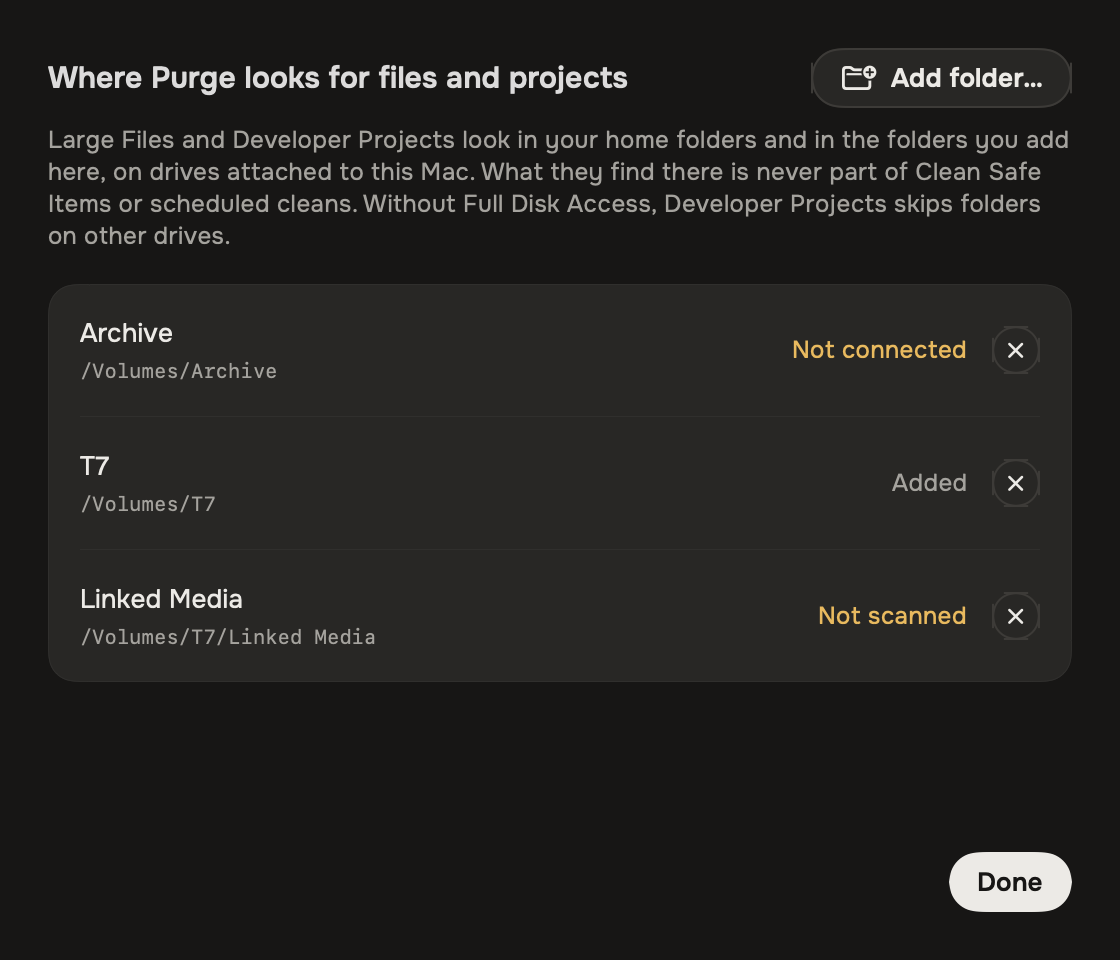
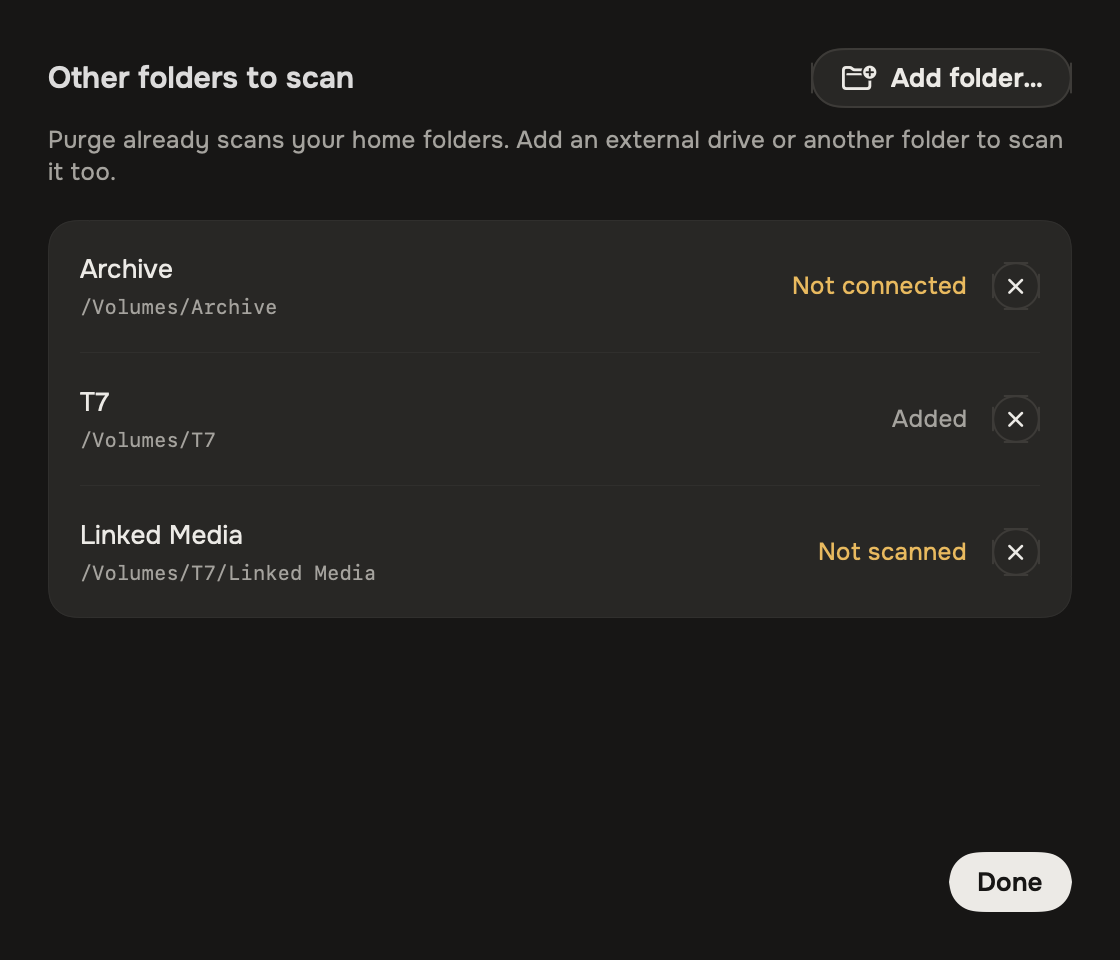
fix: shorten the added-folders text and say home folders are always scanned (#318)
The row is now Other folders to scan, with "Home folders are always
scanned. Add a drive or folder." The sheet says "Purge already scans
your home folders. Add an external drive or another folder to scan it
too." The empty state and the folder picker are shorter too. READMEs,
translations and the Settings and sheet screenshots follow.

diff --git a/purge/Views/SettingsView.swift b/purge/Views/SettingsView.swift
@@ -282,8 +282,8 @@ struct SettingsView: View {
 
             // Named for what it answers, like the uninstaller's row (#318).
             settingsLinkRow(
-                title: String(localized: "Where Purge looks for files and projects"),
-                caption: String(localized: "Your home folders, plus folders and drives you add."),
+                title: String(localized: "Other folders to scan"),
+                caption: String(localized: "Home folders are always scanned. Add a drive or folder."),
                 value: scanFoldersSummary
             ) {
                 showScanFoldersSheet = true
@@ -654,8 +654,8 @@ struct SettingsView: View {
     /// The sheet for `entries`. A render of it in the test host passes its own.
     func scanFoldersSheet(entries: [ScanFolders.Entry]) -> some View {
         settingsSheet(
-            title: String(localized: "Where Purge looks for files and projects"),
-            caption: String(localized: "Large Files and Developer Projects look in your home folders and in the folders you add here, on drives attached to this Mac. What they find there is never part of Clean Safe Items or scheduled cleans. Without Full Disk Access, Developer Projects skips folders on other drives."),
+            title: String(localized: "Other folders to scan"),
+            caption: String(localized: "Purge already scans your home folders. Add an external drive or another folder to scan it too."),
             onDone: { showScanFoldersSheet = false }
         ) {
             Button(action: chooseScanFolder) {
@@ -665,7 +665,7 @@ struct SettingsView: View {
         } content: {
             InsetCard {
                 if entries.isEmpty {
-                    Text("No folders added. Add a folder or a whole drive for Large Files and Developer Projects to look in too.")
+                    Text("No folders added.")
                         .font(scheduleStatusSecondaryFont)
                         .foregroundStyle(AppColors.textSecondary)
                         .fixedSize(horizontal: false, vertical: true)

diff --git a/purge/Services/ScanFolderAdding.swift b/purge/Services/ScanFolderAdding.swift
@@ -14,7 +14,7 @@ enum ScanFolderAdding {
         panel.canCreateDirectories = false
         panel.directoryURL = URL(fileURLWithPath: "/Volumes", isDirectory: true)
         panel.prompt = String(localized: "Add")
-        panel.message = String(localized: "Choose a folder or a drive. Large Files and Developer Projects will look inside it too.")
+        panel.message = String(localized: "Choose a drive or folder to scan too.")
         panel.begin { response in
             guard response == .OK, let folder = panel.url else { return }
             add(folder)

diff --git a/README.ru.md b/README.ru.md
@@ -87,7 +87,7 @@
 
 В **Настройках → Очистка** выберите **Срок устаревания проектов** (от 1 месяца до 2 лет или «Показать все»), чтобы управлять тем, какие проекты показываются. Возраст считается от последнего изменения чего-либо в проекте, включая активность git, а не от даты у `node_modules` или `target`. Проект, который используется прямо сейчас — с запущенным в нём терминалом или dev-сервером либо выполняемой командой git, — не показывается никогда.
 
-Проекты разработчика также берутся из папок и дисков, которые вы добавили в **Настройках → Где Purge ищет файлы и проекты**. Найденные там проекты всегда помечены «Сначала проверить», поэтому «Очистить безопасное» и очистка по расписанию их не трогают. Без полного доступа к диску ищутся только добавленные папки внутри домашней папки.
+Проекты разработчика также берутся из папок и дисков, которые вы добавили в **Настройках → Другие папки для сканирования**. Найденные там проекты всегда помечены «Сначала проверить», поэтому «Очистить безопасное» и очистка по расписанию их не трогают. Без полного доступа к диску ищутся только добавленные папки внутри домашней папки.
 
 Рабочие копии git, созданные ИИ-инструментами для программирования (Cursor, Codex, Conductor, T3 Code и Claude Code), появляются в разделе **Осиротевшие рабочие копии git** только после того, как их репозиторий перестаёт их перечислять. Рабочая копия, которую git всё ещё использует, не появится, какой бы старой она ни была, как и та, в которой работает терминал или агент.
 
@@ -96,7 +96,7 @@
 Найдите личные файлы, которые занимают много места, не копаясь в папках:
 
 - Сканирует **Документы**, **Рабочий стол**, **Загрузки**, **Фильмы**, **Музыку** и **Изображения**, а также `~/Parallels` и `~/Virtual Machines.localized` — только для виртуальных машин, и собственную папку iCloud Drive — для файлов, которые можно хранить только в iCloud
-- Также сканирует папки и диски, которые вы добавили в **Настройках → Где Purge ищет файлы и проекты**, — только на дисках, подключённых к Mac, и никогда в сетевых папках или облачных дисках. Папка, диск которой отключён, пропускается и называется, а не показывается пустой. Файлы оттуда попадают в Корзину этого диска
+- Также сканирует папки и диски, которые вы добавили в **Настройках → Другие папки для сканирования**, — только на дисках, подключённых к Mac, и никогда в сетевых папках или облачных дисках. Папка, диск которой отключён, пропускается и называется, а не показывается пустой. Файлы оттуда попадают в Корзину этого диска
 - Папка, которую вы перенесли и заменили ссылкой, например `~/Documents`, указывающей на другой диск, сканируется там, куда ведёт ссылка, если это внутри вашей домашней папки или на диске в `/Volumes`, подключённом к вашему Mac. Её файлы показываются по настоящему пути и отправляются в Корзину того диска. Ссылка в любое другое место — например, в `~/Library/CloudStorage`, на сетевой ресурс, на целый диск или на копию Mac, — не отслеживается, а сканирование сообщает, куда она ведёт. Ссылки внутри папок не отслеживаются никогда
 - Пропускает управляемые библиотеки (Фото, iMovie, Музыка и подобные), скрытые папки и папки проектов вроде `node_modules`, `Pods`, `DerivedData` и результаты сборки. Удалить один файл из дерева зависимостей — значит просто сломать установку, поэтому такие вещи относятся к инструментам разработчика, которые убирают их папкой целиком
 - **Поиск** фильтрует список по мере ввода, сверяясь с именем файла, папкой, в которой он лежит, и его источником
@@ -171,7 +171,7 @@ Purge ставит метку безопасности каждому элеме
 Настройки — это вкладка в боковой панели (⌘,) с пятью группами:
 
 - **Общие**: **Оставить Purge в строке меню**, при новой установке выключено. Когда включено, Purge продолжает работать после закрытия окна, и можно также выбрать **Запускать Purge при входе** и **Скрыть значок в Dock**. **Внешний вид**: авто, светлая или тёмная
-- **Очистка**: **Очищать автоматически**, с частотой и датой следующей очистки. **Срок устаревания проектов** — порог для проектов разработчика. **Где Purge ищет файлы и проекты** — папки и диски, которые «Большие файлы» и проекты разработчика сканируют помимо домашних папок. **Исключённые папки** — папки, которые вы попросили Purge не трогать, каждая с текущим размером. Щёлкните правой кнопкой по строке в кэшах приложений, инструментах разработчика или больших файлах и выберите **Исключить из сканирования**, чтобы добавить папку. Исключённая среда выполнения симулятора показывается по имени и сборке, с размером на момент исключения. Исключение только сужает то, что просматривает Purge
+- **Очистка**: **Очищать автоматически**, с частотой и датой следующей очистки. **Срок устаревания проектов** — порог для проектов разработчика. **Другие папки для сканирования** — папки и диски, которые «Большие файлы» и проекты разработчика сканируют помимо домашних папок. **Исключённые папки** — папки, которые вы попросили Purge не трогать, каждая с текущим размером. Щёлкните правой кнопкой по строке в кэшах приложений, инструментах разработчика или больших файлах и выберите **Исключить из сканирования**, чтобы добавить папку. Исключённая среда выполнения симулятора показывается по имени и сборке, с размером на момент исключения. Исключение только сужает то, что просматривает Purge
 - **Удаление**: **Удалить через контекстное меню Finder**, **Где Purge ищет приложения**, **Проверять остатки при удалении приложения** и **Удалять защищённые приложения без пароля**
 - **Обновления и история**: **Проверять обновления автоматически**, **Устанавливать обновления автоматически** и **История очистки** — каждая автоматическая и ручная очистка с освобождённым местом и числом элементов, а также сводка последней. Откройте очистку, чтобы увидеть, что перемещено в Корзину, что удалено навсегда, а что пропущено
 - **Удалить**: **Удалить Purge**, подробнее в разделе [Удаление](#удаление)

diff --git a/README.uk.md b/README.uk.md
@@ -90,7 +90,7 @@
 
 У **Settings → Cleaning** параметр **Projects count as stale after** (від 1 місяця до 2 років або Show all) визначає, які проєкти з'являються у списку. Вік рахується від останньої зміни будь-чого в проєкті, зокрема активності git, а не від дати `node_modules` чи `target`. Проєкт, з яким ви працюєте просто зараз — у ньому відкритий термінал або запущений dev-сервер, чи виконується команда git, — у списку ніколи не з'являється.
 
-Проєкти розробника також беруться з папок і дисків, які ви додали в **Settings → Where Purge looks for files and projects**. Знайдені там проєкти завжди позначено Check First, тож Clean Safe Items і очищення за розкладом їх не чіпають. Без Full Disk Access пошук іде лише в доданих папках усередині домашньої папки.
+Проєкти розробника також беруться з папок і дисків, які ви додали в **Settings → Other folders to scan**. Знайдені там проєкти завжди позначено Check First, тож Clean Safe Items і очищення за розкладом їх не чіпають. Без Full Disk Access пошук іде лише в доданих папках усередині домашньої папки.
 
 Робочі дерева git (worktrees), створені ШІ-інструментами для програмування (Cursor, Codex, Conductor, T3 Code і Claude Code), з'являються в **Orphaned Git Worktrees** лише тоді, коли їхній репозиторій їх більше не вказує. Робоче дерево, яким git ще користується, не з'являється, хоч би яким старим воно було, як і те, в якому працює термінал чи агент.
 
@@ -99,7 +99,7 @@
 Знаходьте особисті файли, що займають багато місця, не перекопуючи папки вручну:
 
 - Сканує **Документи**, **Робочий стіл**, **Завантаження**, **Фільми**, **Музика** і **Зображення**, а також `~/Parallels` і `~/Virtual Machines.localized` — лише для віртуальних машин, і власну папку iCloud Drive — для файлів, які можна залишити тільки в iCloud
-- Також сканує папки й диски, які ви додали в **Settings → Where Purge looks for files and projects**, — лише на дисках, під'єднаних до Mac, і ніколи в мережевих папках чи хмарних дисках. Папку, диск якої від'єднано, пропущено й названо, а не показано порожньою. Файли звідти потрапляють у Кошик цього диска
+- Також сканує папки й диски, які ви додали в **Settings → Other folders to scan**, — лише на дисках, під'єднаних до Mac, і ніколи в мережевих папках чи хмарних дисках. Папку, диск якої від'єднано, пропущено й названо, а не показано порожньою. Файли звідти потрапляють у Кошик цього диска
 - Папку, яку ви перенесли й замінили посиланням (наприклад, `~/Documents` вказує на інший диск), Purge сканує там, куди веде посилання, якщо це всередині вашої домашньої папки або на диску в `/Volumes`, підключеному до вашого Mac. Її файли показано за їхнім справжнім шляхом, і вони потрапляють у Кошик того диска. За посиланням будь-куди ще — наприклад, у `~/Library/CloudStorage`, на мережевий ресурс, на цілий диск чи копію Mac — Purge не переходить, а сканування показує, куди воно веде. За посиланнями всередині папок Purge не переходить ніколи
 - Пропускає керовані медіатеки (Фотографії, iMovie, Музика тощо), приховані папки та папки проєктів, як-от `node_modules`, `Pods`, `DerivedData` і результати збирання. Видалення одного файлу з дерева залежностей лише ламає встановлення, тому такі папки належать до Dev Tools, де вони видаляються цілком
 - **Пошук** фільтрує список під час введення: за назвою файлу, папкою, в якій він лежить, і міткою джерела
@@ -174,7 +174,7 @@ Purge присвоює мітку безпеки кожному елементу
 Settings — це вкладка на бічній панелі (⌘,) з п'ятьма групами:
 
 - **General**: **Keep Purge in the menu bar**, вимкнено в новому встановленні. Коли параметр увімкнено, Purge працює й після закриття вікна, і також можна вибрати **Launch Purge at login** і **Hide Dock icon**. **Appearance**: Auto, Light або Dark
-- **Cleaning**: **Clean automatically** із частотою й датою наступного очищення. **Projects count as stale after** — поріг для проєктів розробника. **Where Purge looks for files and projects** — папки й диски, які Large Files і проєкти розробника сканують окрім домашніх папок. **Excluded folders** — папки, які ви попросили Purge не чіпати, кожна з поточним розміром. Щоб додати папку, клацніть правою кнопкою рядок в App Caches, Dev Tools чи Large Files і виберіть **Exclude from scans**. Виключене середовище виконання симулятора показано за назвою та збіркою, з розміром, який воно мало на момент виключення. Виключення лише звужує те, що переглядає Purge
+- **Cleaning**: **Clean automatically** із частотою й датою наступного очищення. **Projects count as stale after** — поріг для проєктів розробника. **Other folders to scan** — папки й диски, які Large Files і проєкти розробника сканують окрім домашніх папок. **Excluded folders** — папки, які ви попросили Purge не чіпати, кожна з поточним розміром. Щоб додати папку, клацніть правою кнопкою рядок в App Caches, Dev Tools чи Large Files і виберіть **Exclude from scans**. Виключене середовище виконання симулятора показано за назвою та збіркою, з розміром, який воно мало на момент виключення. Виключення лише звужує те, що переглядає Purge
 - **Uninstalling**: **Uninstall from Finder's right-click menu**, **Where Purge looks for apps**, **Review leftovers when an app is deleted** і **Remove admin-locked apps without a password**
 - **Updates and History**: **Check for updates automatically**, **Install updates automatically** і **Cleaning history** — список кожного автоматичного й ручного очищення зі звільненим місцем і кількістю елементів, а також підсумок останнього. Відкрийте очищення, щоб побачити, що перемістилося в Кошик, що видалено назавжди, а що пропущено
 - **Uninstall**: **Uninstall Purge**, про це в розділі [Видалення Purge](#видалення-purge)

diff --git a/README.md b/README.md
@@ -87,7 +87,7 @@ Simulators, runtimes and Xcode components are always Check First. They are delet
 
 In **Settings → Cleaning**, choose **Projects count as stale after** (1 month to 2 years, or Show all) to control which projects appear. Age is measured from the last time anything in the project changed, including git activity, not from the date on `node_modules` or `target`. A project in use right now, with a terminal or dev server running inside it or a git command in progress, never appears.
 
-Developer projects also come from the folders and drives you add under **Settings → Where Purge looks for files and projects**. Projects found there are always Check First, so Clean Safe Items and scheduled cleans never take them. Without Full Disk Access, only added folders inside your home folder are searched.
+Developer projects also come from the folders and drives you add under **Settings → Other folders to scan**. Projects found there are always Check First, so Clean Safe Items and scheduled cleans never take them. Without Full Disk Access, only added folders inside your home folder are searched.
 
 Git worktrees made by AI coding tools (Cursor, Codex, Conductor, T3 Code, and Claude Code) appear under **Orphaned Git Worktrees** only once their repository no longer lists them. A worktree Git still uses never appears however old it is, and neither does one a terminal or agent is working inside.
 
@@ -96,7 +96,7 @@ Git worktrees made by AI coding tools (Cursor, Codex, Conductor, T3 Code, and Cl
 Find space-hogging personal files without digging through folders:
 
 - Scans **Documents**, **Desktop**, **Downloads**, **Movies**, **Music**, and **Pictures**, plus `~/Parallels` and `~/Virtual Machines.localized` for virtual machines only, and iCloud Drive's own folder for files you can keep only in iCloud
-- Also scans the folders and drives you add under **Settings → Where Purge looks for files and projects**, on disks attached to your Mac only, never a network share or a cloud drive. A folder whose drive is unplugged is skipped and named, not shown as empty. Files there go to that drive's Trash
+- Also scans the folders and drives you add under **Settings → Other folders to scan**, on disks attached to your Mac only, never a network share or a cloud drive. A folder whose drive is unplugged is skipped and named, not shown as empty. Files there go to that drive's Trash
 - A folder you moved and replaced with a link, such as `~/Documents` pointing to another drive, is scanned where the link leads when that is inside your home folder or on a drive under `/Volumes`, on a disk attached to your Mac. Its files are listed by their real path and go to that drive's Trash. A link anywhere else, such as into `~/Library/CloudStorage`, to a network share, or to a whole drive or a copy of a Mac, is not followed, and the scan says where it leads. Links inside the folders are never followed
 - Skips managed libraries (Photos, iMovie, Music, and similar), hidden folders, and project folders like `node_modules`, `Pods`, `DerivedData` and build output. Deleting a single file out of a dependency tree only breaks the install, so those belong in Dev Tools, which removes them a folder at a time
 - **Search** filters the list as you type, matching the file name, the folder it sits in, and its source label
@@ -171,7 +171,7 @@ The labels and explanations are there to be checked, not read cover to cover. Se
 Settings is a tab in the sidebar (⌘,) with five groups:
 
 - **General**: **Keep Purge in the menu bar**, which is off on a new install. When it is on, Purge keeps running after you close the window, and you can also choose **Launch Purge at login** and **Hide Dock icon**. **Appearance** is Auto, Light, or Dark
-- **Cleaning**: **Clean automatically**, with a frequency and the next-clean date. **Projects count as stale after**, the threshold for Developer Projects. **Where Purge looks for files and projects**, the folders and drives Large Files and Developer Projects scan besides your home folders. **Excluded folders**, the folders you've told Purge to leave alone, each with its current size. Right-click a row in App Caches, Dev Tools or Large Files and choose **Exclude from scans** to add one. An excluded simulator runtime is listed by name and build, with the size it had when you excluded it. Excluding only ever narrows what Purge looks at
+- **Cleaning**: **Clean automatically**, with a frequency and the next-clean date. **Projects count as stale after**, the threshold for Developer Projects. **Other folders to scan**, the folders and drives Large Files and Developer Projects scan besides your home folders. **Excluded folders**, the folders you've told Purge to leave alone, each with its current size. Right-click a row in App Caches, Dev Tools or Large Files and choose **Exclude from scans** to add one. An excluded simulator runtime is listed by name and build, with the size it had when you excluded it. Excluding only ever narrows what Purge looks at
 - **Uninstalling**: **Uninstall from Finder's right-click menu**, **Where Purge looks for apps**, **Review leftovers when an app is deleted**, and **Remove admin-locked apps without a password**
 - **Updates and History**: **Check for updates automatically**, **Install updates automatically**, and **Cleaning history**, which lists every automatic and manual clean with the space freed and the item count, and shows a summary of the last one. Open a clean to see what was moved to the Trash, what was deleted permanently, and what was skipped
 - **Uninstall**: **Uninstall Purge**, covered under [Uninstalling](#uninstalling)

diff --git a/README.zh-CN.md b/README.zh-CN.md
@@ -91,7 +91,7 @@
 
 在 **设置 → 清理** 中，选择 **项目闲置多久后视为过期**（1 个月到 2 年，或显示全部），来控制显示哪些项目。时间从项目内任何内容最后一次变动算起，包括 git 活动，而不是看 `node_modules` 或 `target` 的日期。正在使用的项目，例如其中正运行着终端或开发服务器，或正在执行 git 命令，永远不会出现。
 
-开发项目也会来自你在 **设置 → Purge 在哪里查找文件和项目** 中添加的文件夹和磁盘。在那里找到的项目始终标记为“先检查”，因此“清理安全项目”和定时清理绝不会动它们。没有完全磁盘访问权限时，只会搜索位于个人文件夹中的已添加文件夹。
+开发项目也会来自你在 **设置 → 要扫描的其他文件夹** 中添加的文件夹和磁盘。在那里找到的项目始终标记为“先检查”，因此“清理安全项目”和定时清理绝不会动它们。没有完全磁盘访问权限时，只会搜索位于个人文件夹中的已添加文件夹。
 
 由 AI 编程工具（Cursor、Codex、Conductor、T3 Code 和 Claude Code）创建的 Git 工作树，只有在其仓库不再列出它们之后，才会出现在 **孤立 Git 工作树（Orphaned Git Worktrees）** 下。Git 仍在使用的工作树无论多旧都不会出现，终端或智能体正在其中工作的工作树同样不会出现。
 
@@ -100,7 +100,7 @@
 不用逐个翻文件夹，就能找到占用空间的个人文件：
 
 - 扫描 **文稿**、**桌面**、**下载**、**影片**、**音乐** 和 **图片**，另外只在 `~/Parallels` 和 `~/Virtual Machines.localized` 中查找虚拟机，并在 iCloud 云盘自己的文件夹中查找可以只保留在 iCloud 中的文件
-- 也会扫描你在 **设置 → Purge 在哪里查找文件和项目** 中添加的文件夹和磁盘，但只限连接到这台 Mac 的磁盘，绝不扫描网络共享或云盘。所在磁盘已拔出的文件夹会被跳过并注明，不会显示为空。其中的文件会移到该磁盘的废纸篓
+- 也会扫描你在 **设置 → 要扫描的其他文件夹** 中添加的文件夹和磁盘，但只限连接到这台 Mac 的磁盘，绝不扫描网络共享或云盘。所在磁盘已拔出的文件夹会被跳过并注明，不会显示为空。其中的文件会移到该磁盘的废纸篓
 - 你移走并换成链接的文件夹（例如指向另一块磁盘的 `~/Documents`），如果链接指向你的个人文件夹内，或指向 `/Volumes` 下连接到这台 Mac 的磁盘，Purge 会扫描链接指向的位置。其中的文件按真实路径列出，并移到该磁盘的废纸篓。指向其他位置的链接（例如 `~/Library/CloudStorage`、网络共享、整块磁盘或 Mac 的副本）不会被跟随，扫描会说明它指向哪里。文件夹内部的链接一律不会跟随
 - 跳过受管理的资源库（照片、iMovie、音乐等）、隐藏文件夹，以及 `node_modules`、`Pods`、`DerivedData` 和构建产物这类项目文件夹。从依赖目录中单独删除一个文件只会破坏安装，所以这些内容应归开发工具处理，它会按文件夹整个移除
 - **搜索** 会在你输入时筛选列表，可匹配文件名、所在文件夹及其来源标签
@@ -175,7 +175,7 @@ Purge 会为它识别的每个项目分配一个安全标签：
 设置是侧边栏中的一个标签页（⌘,），分为五组：
 
 - **通用**：**在菜单栏保留 Purge**，新安装时默认关闭。开启后，关闭窗口时 Purge 会继续运行，你还可以选择 **登录时启动 Purge** 和 **隐藏程序坞图标**。**外观** 可选自动、浅色或深色
-- **清理**：**自动清理**，可设定频率并显示下次清理日期。**项目闲置多久后视为过期**，即开发项目的时间阈值。**Purge 在哪里查找文件和项目**，即大文件和开发项目在个人文件夹之外扫描的文件夹和磁盘。**排除的文件夹**，也就是你告诉 Purge 不要动的文件夹，每个都显示当前大小。在应用缓存、开发工具或大文件中右键点击某一行并选择 **从扫描中排除** 即可添加。被排除的模拟器运行时会按名称和版本号列出，并显示排除时的大小。排除操作只会缩小 Purge 的查看范围
+- **清理**：**自动清理**，可设定频率并显示下次清理日期。**项目闲置多久后视为过期**，即开发项目的时间阈值。**要扫描的其他文件夹**，即大文件和开发项目在个人文件夹之外扫描的文件夹和磁盘。**排除的文件夹**，也就是你告诉 Purge 不要动的文件夹，每个都显示当前大小。在应用缓存、开发工具或大文件中右键点击某一行并选择 **从扫描中排除** 即可添加。被排除的模拟器运行时会按名称和版本号列出，并显示排除时的大小。排除操作只会缩小 Purge 的查看范围
 - **卸载**：**在访达右键菜单中卸载**、**Purge 在哪里查找应用**、**应用删除后检查残留文件**，以及 **移除管理员锁定的应用，无需重复输入密码**
 - **更新与历史记录**：**自动检查更新**、**自动安装更新**，以及 **清理历史记录**。它列出每一次自动和手动清理，包含释放的空间和项目数量，并显示上次清理的摘要。打开某一条，可以看到哪些已移到废纸篓、哪些被永久删除、哪些被跳过
 - **卸载 Purge**：详见[卸载](#卸载)
